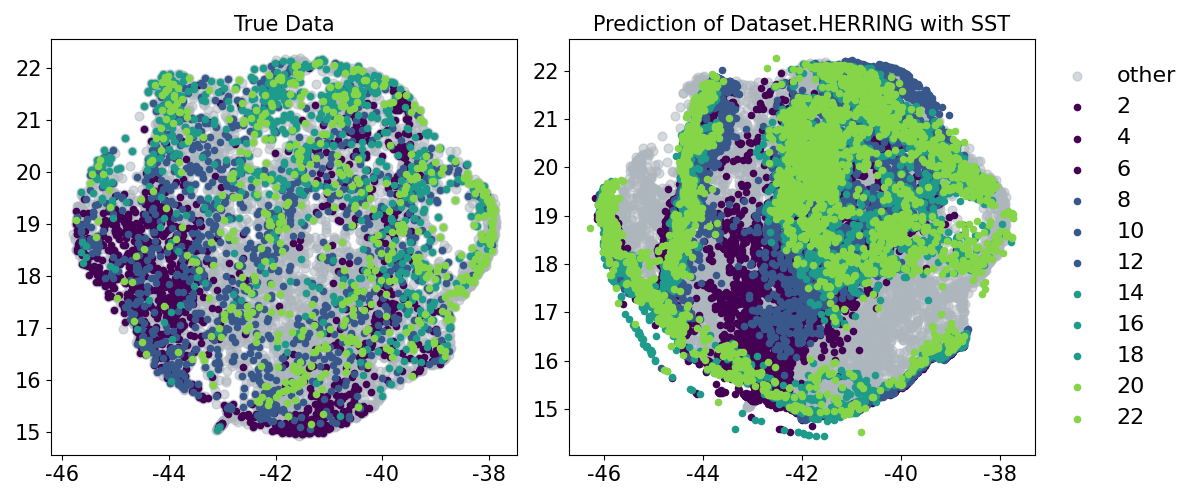
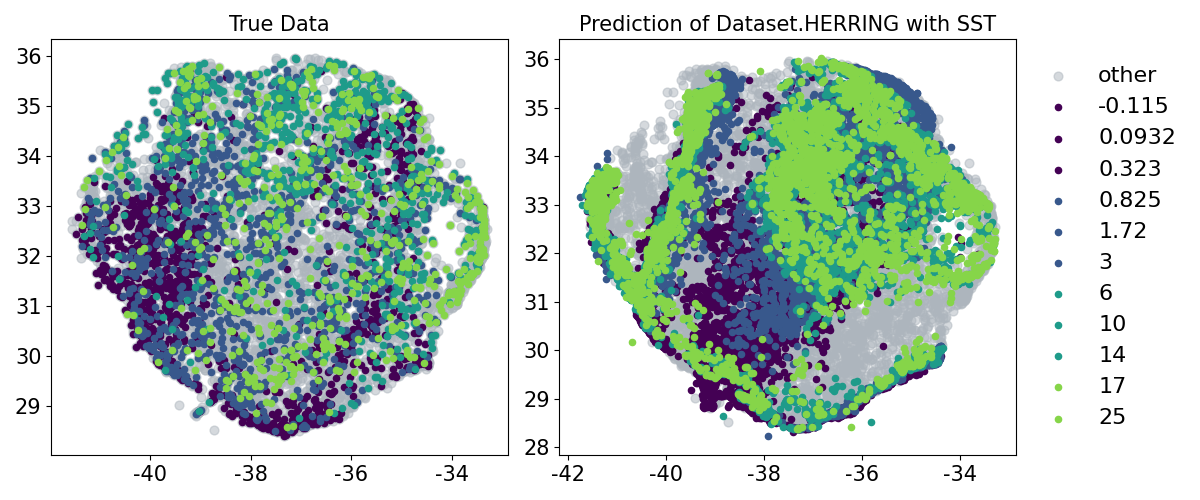
[feat] Proper legends, figures finally done

diff --git a/benchmark/train_per_cell_type.py b/benchmark/train_per_cell_type.py
@@ -8,6 +8,7 @@ import numpy as np
 import scanpy as sc
 import torch
 import torch.distributed as dist
+import pickle
 
 from datetime import datetime
 from torch import nn
@@ -67,7 +68,6 @@ def prep_splits_herring(ann_data, n_tps, data_name, cell_type):
     traj_data = [torch.FloatTensor(data[np.where(cell_tps == t)[0], :].toarray()) for t in times_sorted]
 
     train_data, test_data = splitBySpec(traj_data, train_tps, test_tps)
-
 
     tps = torch.FloatTensor(all_tps)
     train_tps = torch.FloatTensor(train_tps)
@@ -181,7 +181,9 @@ def visualize_umap_embeds(
     test_tps,
     split_type,
     cell_type='all',
-    use_normalized=False
+    use_normalized=False,
+    tps=None,
+    data_name=Dataset.HERRING
 ):
     from plotting.PlottingUtils import umapWithPCA
     from plotting.visualization import plotPredAllTime, plotPredTestTime
@@ -193,14 +195,33 @@ def visualize_umap_embeds(
     true_data = [each.detach().numpy() for each in traj_data]
     
     # basically create true_cell_tps and pred_cell_tps which will be annotations for both the true data and predicted ones
-    true_cell_tps = np.concatenate([np.repeat(t, each.shape[0]) for t, each in enumerate(true_data)])
-    pred_cell_tps = np.concatenate([np.repeat(t, all_recon_obs[:, t, :].shape[0]) for t in range(all_recon_obs.shape[1])])
+    true_cell_tps = np.concatenate([np.repeat(tps[t], each.shape[0]) for t, each in enumerate(true_data)])
+    pred_cell_tps = np.concatenate([np.repeat(tps[t], all_recon_obs[:, t, :].shape[0]) for t in range(all_recon_obs.shape[1])])
 
     # we have now an array of length t, of 2000 cells x genes
     reorder_pred_data = [all_recon_obs[:, t, :] for t in range(all_recon_obs.shape[1])]
 
-    # then we map the umap of the true data
-    true_umap_traj, umap_model, pca_model = umapWithPCA(np.concatenate(true_data, axis=0), n_neighbors=50, min_dist=0.1, pca_pcs=50)
+    # get PCA model if does not exist, otherwise, let's calculate and save it
+    # do it per single-cell type and per 
+    checkpoint_dir = f'./checkpoints/vis_embeds/{data_name}/{split_type}/{cell_type}'
+    vis_embed_checkpoint_path = f'{checkpoint_dir}/vis_embed.pkl'
+    if not os.path.exists(vis_embed_checkpoint_path):
+        true_umap_traj, umap_model, pca_model = umapWithPCA(np.concatenate(true_data, axis=0), n_neighbors=50, min_dist=0.1, pca_pcs=50)
+
+        # now we save it
+        os.makedirs(checkpoint_dir, exist_ok=True)
+        with open(vis_embed_checkpoint_path, 'wb') as umap_file:
+            pickle.dump({'pca': pca_model, 'umap': umap_model}, umap_file)
+        print(f'Successfully saved visualization embeddings to {vis_embed_checkpoint_path}')
+
+    else:
+        with open(vis_embed_checkpoint_path, 'rb') as umap_file:
+            models = pickle.load(umap_file)
+        pca_model = models['pca']
+        umap_model = models['umap']
+        true_umap_traj = umap_model.transform(pca_model.transform(np.concatenate(true_data, axis=0)))
+        print(f'Using the saved visualization embeddings from {vis_embed_checkpoint_path}')
+
     # and then the predicted one
     pred_umap_traj = umap_model.transform(pca_model.transform(np.concatenate(reorder_pred_data, axis=0)))
 
@@ -466,6 +487,9 @@ def train_and_visualize(
         n_cells=n_sim_cells
     )  # (# cells, # tps, # genes)
 
+    test_tps = tps_to_continuous(test_tps, all_times_sorted)
+    print(f'test tps under train_and_visualize: {test_tps}')
+
     if args.v:
         # only predict the relevant time points based on times_sorted
         visualize_umap_embeds(
@@ -474,7 +498,9 @@ def train_and_visualize(
             test_tps,
             split_type=split_type,
             cell_type=cell_type,
-            use_normalized=args.normalize
+            use_normalized=args.normalize,
+            tps=tps,
+            data_name=data_name
         )
 
     if args.traj_view:

diff --git a/plotting/visualization.py b/plotting/visualization.py
@@ -16,24 +16,34 @@ from plotting import _removeAllBorders, _removeTopRightBorders
 
 def plotPredAllTime(true_umap_traj, pred_umap_traj, true_cell_tps, pred_cell_tps, fig_name=None, title=None):
     '''Plot predictions at all timepoints.'''
-    unique_tps = np.unique(true_cell_tps).astype(int).tolist()
+    unique_tps = np.unique(true_cell_tps).tolist()
     n_tps = len(unique_tps)
     color_list = linearSegmentCMap(n_tps, "viridis")
     # color_list = Vivid_10.mpl_colors
+    num_cols = len(unique_tps) // 7
+
     fig, (ax1, ax2) = plt.subplots(1, 2, figsize=(12, 5))
     ax1.set_title("True Data", fontsize=15)
     ax2.set_title("Predictions", fontsize=15)
     for i, t in enumerate(unique_tps):
         true_t_idx = np.where(true_cell_tps == t)[0]
         pred_t_idx = np.where(pred_cell_tps == t)[0]
-        ax1.scatter(true_umap_traj[true_t_idx, 0], true_umap_traj[true_t_idx, 1], label=t, color=color_list[i], s=20, alpha=1.0)
-        ax2.scatter(pred_umap_traj[pred_t_idx, 0], pred_umap_traj[pred_t_idx, 1], label=t, color=color_list[i], s=20, alpha=1.0)
-    ax2.legend(loc="center left", bbox_to_anchor=(1.0, 0.5))
+        ax1.scatter(true_umap_traj[true_t_idx, 0], true_umap_traj[true_t_idx, 1], label=f'{t:.3g}', color=color_list[i], s=20, alpha=1.0)
+        ax2.scatter(pred_umap_traj[pred_t_idx, 0], pred_umap_traj[pred_t_idx, 1], label=f'{t:.3g}', color=color_list[i], s=20, alpha=1.0)
+
+    ax2.legend(
+        loc="center left",
+        bbox_to_anchor=(1.1, 0.5),
+        ncol=num_cols
+    )
     # plt.tight_layout()
+
+    # fig.subplots_adjust(right=0.5 * num_cols)
+
     if title is not None:
         plt.title(title)
     if fig_name is not None:
-        plt.savefig(f'figs/{fig_name}')
+        plt.savefig(f'figs/{fig_name}', bbox_inches='tight')
     else:
         plt.show()
 
@@ -55,8 +65,8 @@ def plotPredTestTime(true_umap_traj, pred_umap_traj, true_cell_tps, pred_cell_tp
         c = color_list[i]
         true_t_idx = np.where(true_cell_tps == t)[0]
         pred_t_idx = np.where(pred_cell_tps == t)[0]
-        ax1.scatter(true_umap_traj[true_t_idx, 0], true_umap_traj[true_t_idx, 1], label=int(t), color=c, s=20, alpha=1.0)
-        ax2.scatter(pred_umap_traj[pred_t_idx, 0], pred_umap_traj[pred_t_idx, 1], label=int(t), color=c, s=20, alpha=1.0)
+        ax1.scatter(true_umap_traj[true_t_idx, 0], true_umap_traj[true_t_idx, 1], label=f'{t:.3g}', color=c, s=20, alpha=1.0)
+        ax2.scatter(pred_umap_traj[pred_t_idx, 0], pred_umap_traj[pred_t_idx, 1], label=f'{t:.3g}', color=c, s=20, alpha=1.0)
 
     ax2.legend(loc="center left", bbox_to_anchor=(1.0, 0.5))
     plt.tight_layout()
